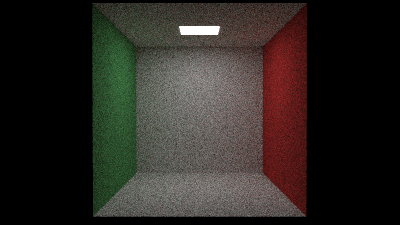
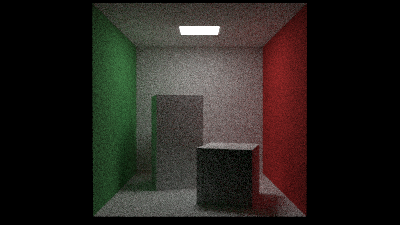
Add instances

diff --git a/src/hittable.rs b/src/hittable.rs
@@ -42,23 +42,27 @@ impl<'a> HitRecord<'a> {
         outward_normal: Vec3,
         material: &'a dyn Material,
     ) -> Self {
-        let front_face = r.direction.dot(&outward_normal) < 0.0;
-        // The normal against the ray
-        let normal = if front_face {
+        let mut hr = Self {
+            point,
+            normal: Vec3::zero(),
+            t,
+            u,
+            v,
+            front_face: false,
+            material,
+        };
+
+        hr.set_face_normal(r, outward_normal);
+        hr
+    }
+
+    pub fn set_face_normal(&mut self, r: &Ray, outward_normal: Vec3) {
+        self.front_face = r.direction.dot(&outward_normal) < 0.0;
+        self.normal = if self.front_face {
             outward_normal
         } else {
             -outward_normal
         };
-
-        HitRecord {
-            point,
-            normal,
-            t,
-            u,
-            v,
-            front_face,
-            material,
-        }
     }
 }
 
@@ -95,5 +99,131 @@ impl Hittable for HittableList {
             }
             Some(temp_box)
         }
+    }
+}
+
+pub struct Translate {
+    object: Arc<dyn Hittable>,
+    offset: Vec3,
+}
+
+impl Translate {
+    pub fn new(object: Arc<dyn Hittable>, offset: Vec3) -> Self {
+        Self { object, offset }
+    }
+}
+
+impl Hittable for Translate {
+    fn hit(&self, r: &Ray, t_min: f64, t_max: f64) -> Option<HitRecord> {
+        let moved_r = Ray::new(r.origin - self.offset, r.direction, r.time);
+
+        if let Some(mut hit) = self.object.hit(&moved_r, t_min, t_max) {
+            hit.point += self.offset;
+            hit.set_face_normal(&moved_r, hit.normal);
+            Some(hit)
+        } else {
+            None
+        }
+    }
+
+    fn bounding_box(&self, time0: f64, time1: f64) -> Option<AABB> {
+        if let Some(mut bb) = self.object.bounding_box(time0, time1) {
+            bb.minimum += self.offset;
+            bb.maximum += self.offset;
+            Some(bb)
+        } else {
+            None
+        }
+    }
+}
+
+pub struct RotateY {
+    object: Arc<dyn Hittable>,
+    sin_theta: f64,
+    cos_theta: f64,
+    bbox: Option<AABB>,
+}
+
+impl RotateY {
+    pub fn new(object: Arc<dyn Hittable>, angle: f64) -> Self {
+        use std::f64::INFINITY;
+
+        let angle = angle.to_radians();
+        let sin_theta = angle.sin();
+        let cos_theta = angle.cos();
+
+        let bbox = if let Some(bb) = object.bounding_box(0.0, 1.0) {
+            let mut min = Vec3::splat(INFINITY);
+            let mut max = Vec3::splat(-INFINITY);
+
+            for i in 0..2 {
+                for j in 0..2 {
+                    for k in 0..2 {
+                        let (i, j, k) = (i as f64, j as f64, k as f64);
+
+                        let x = i * bb.maximum.x() + (1.0 - i) * bb.minimum.x();
+                        let y = j * bb.maximum.y() + (1.0 - j) * bb.minimum.y();
+                        let z = k * bb.maximum.z() + (1.0 - k) * bb.minimum.z();
+
+                        let newx = cos_theta * x + sin_theta * z;
+                        let newz = -sin_theta * x + cos_theta * z;
+
+                        let tester = Vec3::new(newx, y, newz);
+                        for c in 0..3 {
+                            min[c] = min[c].min(tester[c]);
+                            max[c] = max[c].max(tester[c]);
+                        }
+                    }
+                }
+            }
+            Some(AABB {
+                minimum: min,
+                maximum: max,
+            })
+        } else {
+            None
+        };
+
+        Self {
+            object,
+            sin_theta,
+            cos_theta,
+            bbox,
+        }
+    }
+}
+
+impl Hittable for RotateY {
+    fn hit(&self, r: &Ray, t_min: f64, t_max: f64) -> Option<HitRecord> {
+        let mut origin = r.origin;
+        origin[0] = self.cos_theta * r.origin[0] - self.sin_theta * r.origin[2];
+        origin[2] = self.sin_theta * r.origin[0] + self.cos_theta * r.origin[2];
+
+        let mut direction = r.direction;
+        direction[0] = self.cos_theta * r.direction[0] - self.sin_theta * r.direction[2];
+        direction[2] = self.sin_theta * r.direction[0] + self.cos_theta * r.direction[2];
+
+        let rotated_r = Ray::new(origin, direction, r.time);
+
+        if let Some(mut hit) = self.object.hit(&rotated_r, t_min, t_max) {
+            let mut point = hit.point;
+            point[0] = self.cos_theta * hit.point[0] + self.sin_theta * hit.point[2];
+            point[2] = -self.sin_theta * hit.point[0] + self.cos_theta * hit.point[2];
+
+            let mut normal = hit.normal;
+            normal[0] = self.cos_theta * hit.normal[0] + self.sin_theta * hit.normal[2];
+            normal[2] = -self.sin_theta * hit.normal[0] + self.cos_theta * hit.normal[2];
+
+            hit.point = point;
+            hit.normal = normal;
+
+            Some(hit)
+        } else {
+            None
+        }
+    }
+
+    fn bounding_box(&self, _time0: f64, _time1: f64) -> Option<AABB> {
+        self.bbox.clone()
     }
 }

diff --git a/src/objects/block.rs b/src/objects/block.rs
@@ -1,0 +1,91 @@
+use super::*;
+
+pub struct Block {
+    p0: Vec3,
+    p1: Vec3,
+    sides: HittableList,
+}
+
+impl Block {
+    pub fn new(p0: Vec3, p1: Vec3, material: Arc<dyn Material>) -> Self {
+        let mut side_rectangles: Vec<Arc<dyn Hittable>> = Vec::new();
+
+        side_rectangles.push(Arc::new(Rect::new(
+            RectAxis::XY,
+            p0.x(),
+            p1.x(),
+            p0.y(),
+            p1.y(),
+            p1.z(),
+            Arc::clone(&material),
+        )));
+        side_rectangles.push(Arc::new(Rect::new(
+            RectAxis::XY,
+            p0.x(),
+            p1.x(),
+            p0.y(),
+            p1.y(),
+            p0.z(),
+            Arc::clone(&material),
+        )));
+
+        side_rectangles.push(Arc::new(Rect::new(
+            RectAxis::XZ,
+            p0.x(),
+            p1.x(),
+            p0.z(),
+            p1.z(),
+            p1.y(),
+            Arc::clone(&material),
+        )));
+        side_rectangles.push(Arc::new(Rect::new(
+            RectAxis::XZ,
+            p0.x(),
+            p1.x(),
+            p0.z(),
+            p1.z(),
+            p0.y(),
+            Arc::clone(&material),
+        )));
+
+        side_rectangles.push(Arc::new(Rect::new(
+            RectAxis::YZ,
+            p0.y(),
+            p1.y(),
+            p0.z(),
+            p1.z(),
+            p1.x(),
+            Arc::clone(&material),
+        )));
+        side_rectangles.push(Arc::new(Rect::new(
+            RectAxis::YZ,
+            p0.y(),
+            p1.y(),
+            p0.z(),
+            p1.z(),
+            p0.x(),
+            Arc::clone(&material),
+        )));
+
+        Self {
+            p0,
+            p1,
+            sides: HittableList {
+                objects: side_rectangles,
+            },
+        }
+    }
+}
+
+impl Hittable for Block {
+    fn hit(&self, r: &Ray, t_min: f64, t_max: f64) -> Option<HitRecord> {
+        self.sides.hit(r, t_min, t_max)
+    }
+
+    fn bounding_box(&self, _time0: f64, _time1: f64) -> Option<AABB> {
+        Some(AABB {
+            minimum: self.p0,
+            maximum: self.p1,
+        })
+    }
+}

diff --git a/src/scenes.rs b/src/scenes.rs
@@ -1,5 +1,5 @@
 use crate::camera::CameraConfig;
-use crate::hittable::{Hittable, HittableList};
+use crate::hittable::{Hittable, HittableList, RotateY, Translate};
 use crate::material::*;
 use crate::objects::*;
 use crate::texture::*;
@@ -455,6 +455,7 @@ pub fn cornell_box() -> HittableList {
     let green: Arc<dyn Material> = Arc::new(Lambertian::from_color(Vec3::new(0.12, 0.45, 0.15)));
     let light: Arc<dyn Material> = Arc::new(DiffuseLight::from_color(Vec3::splat(15.0)));
 
+    // Sides
     objects.push(Arc::new(Rect::new(
         RectAxis::YZ,
         0.0,
@@ -509,6 +510,25 @@ pub fn cornell_box() -> HittableList {
         555.0,
         Arc::clone(&white),
     )));
+
+    // Blocks
+    let box1 = Arc::new(Block::new(
+        Vec3::zero(),
+        Vec3::new(165.0, 330.0, 165.0),
+        Arc::clone(&white),
+    ));
+    let box1 = Arc::new(RotateY::new(box1, 15.0));
+    let box1 = Arc::new(Translate::new(box1, Vec3::new(265.0, 0.0, 295.0)));
+    objects.push(box1);
+
+    let box2 = Arc::new(Block::new(
+        Vec3::zero(),
+        Vec3::new(165.0, 165.0, 165.0),
+        Arc::clone(&white),
+    ));
+    let box2 = Arc::new(RotateY::new(box2, -18.0));
+    let box2 = Arc::new(Translate::new(box2, Vec3::new(130.0, 0.0, 65.0)));
+    objects.push(box2);
 
     HittableList { objects }
 }

diff --git a/src/objects/mod.rs b/src/objects/mod.rs
@@ -1,5 +1,5 @@
 use crate::aabb::AABB;
-use crate::hittable::{HitRecord, Hittable};
+use crate::hittable::{HitRecord, Hittable, HittableList};
 use crate::material::Material;
 use crate::ray::Ray;
 use std::sync::Arc;
@@ -11,3 +11,5 @@ mod moving_sphere;
 pub use moving_sphere::*;
 mod aarect;
 pub use aarect::*;
+mod block;
+pub use block::*;

diff --git a/src/material.rs b/src/material.rs
@@ -121,7 +121,7 @@ pub struct DiffuseLight {
 }
 
 impl DiffuseLight {
-    pub fn new(emit: Arc<dyn Texture>) -> Self {
+    pub fn _new(emit: Arc<dyn Texture>) -> Self {
         Self { emit }
     }
 
